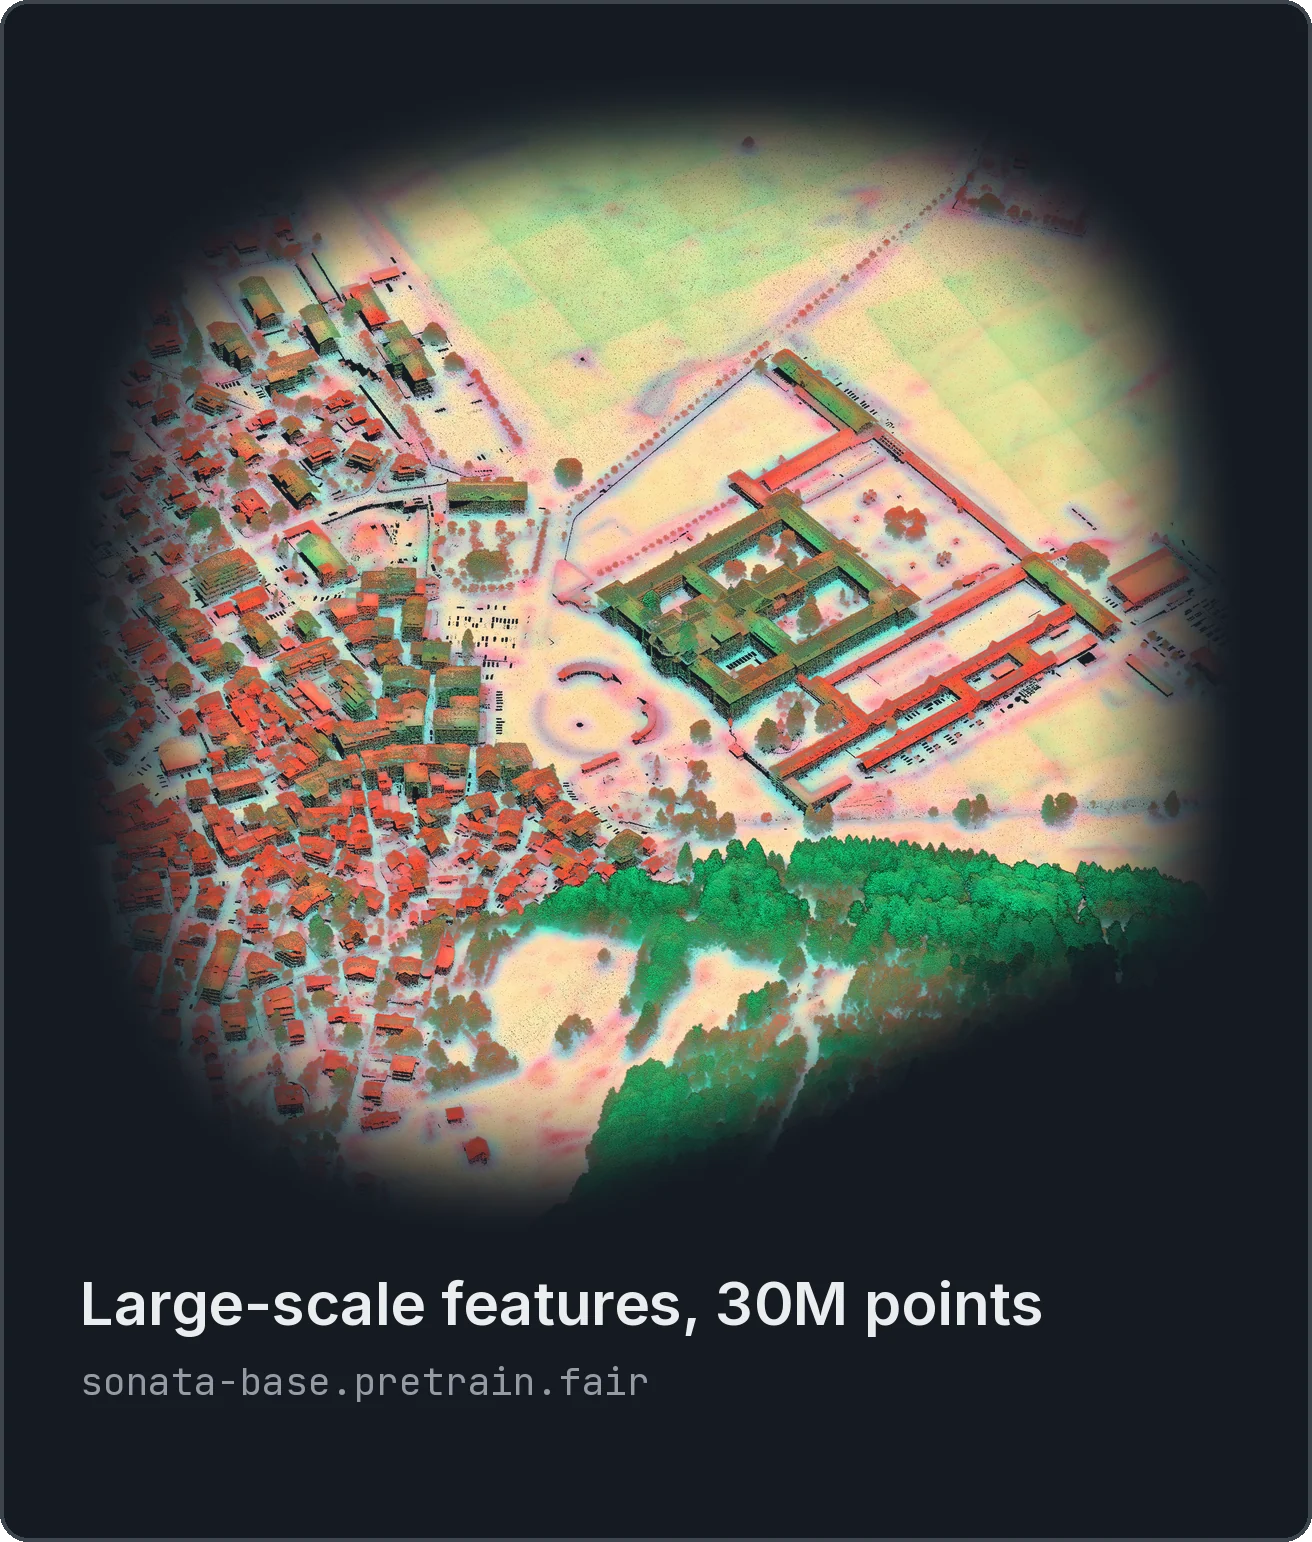
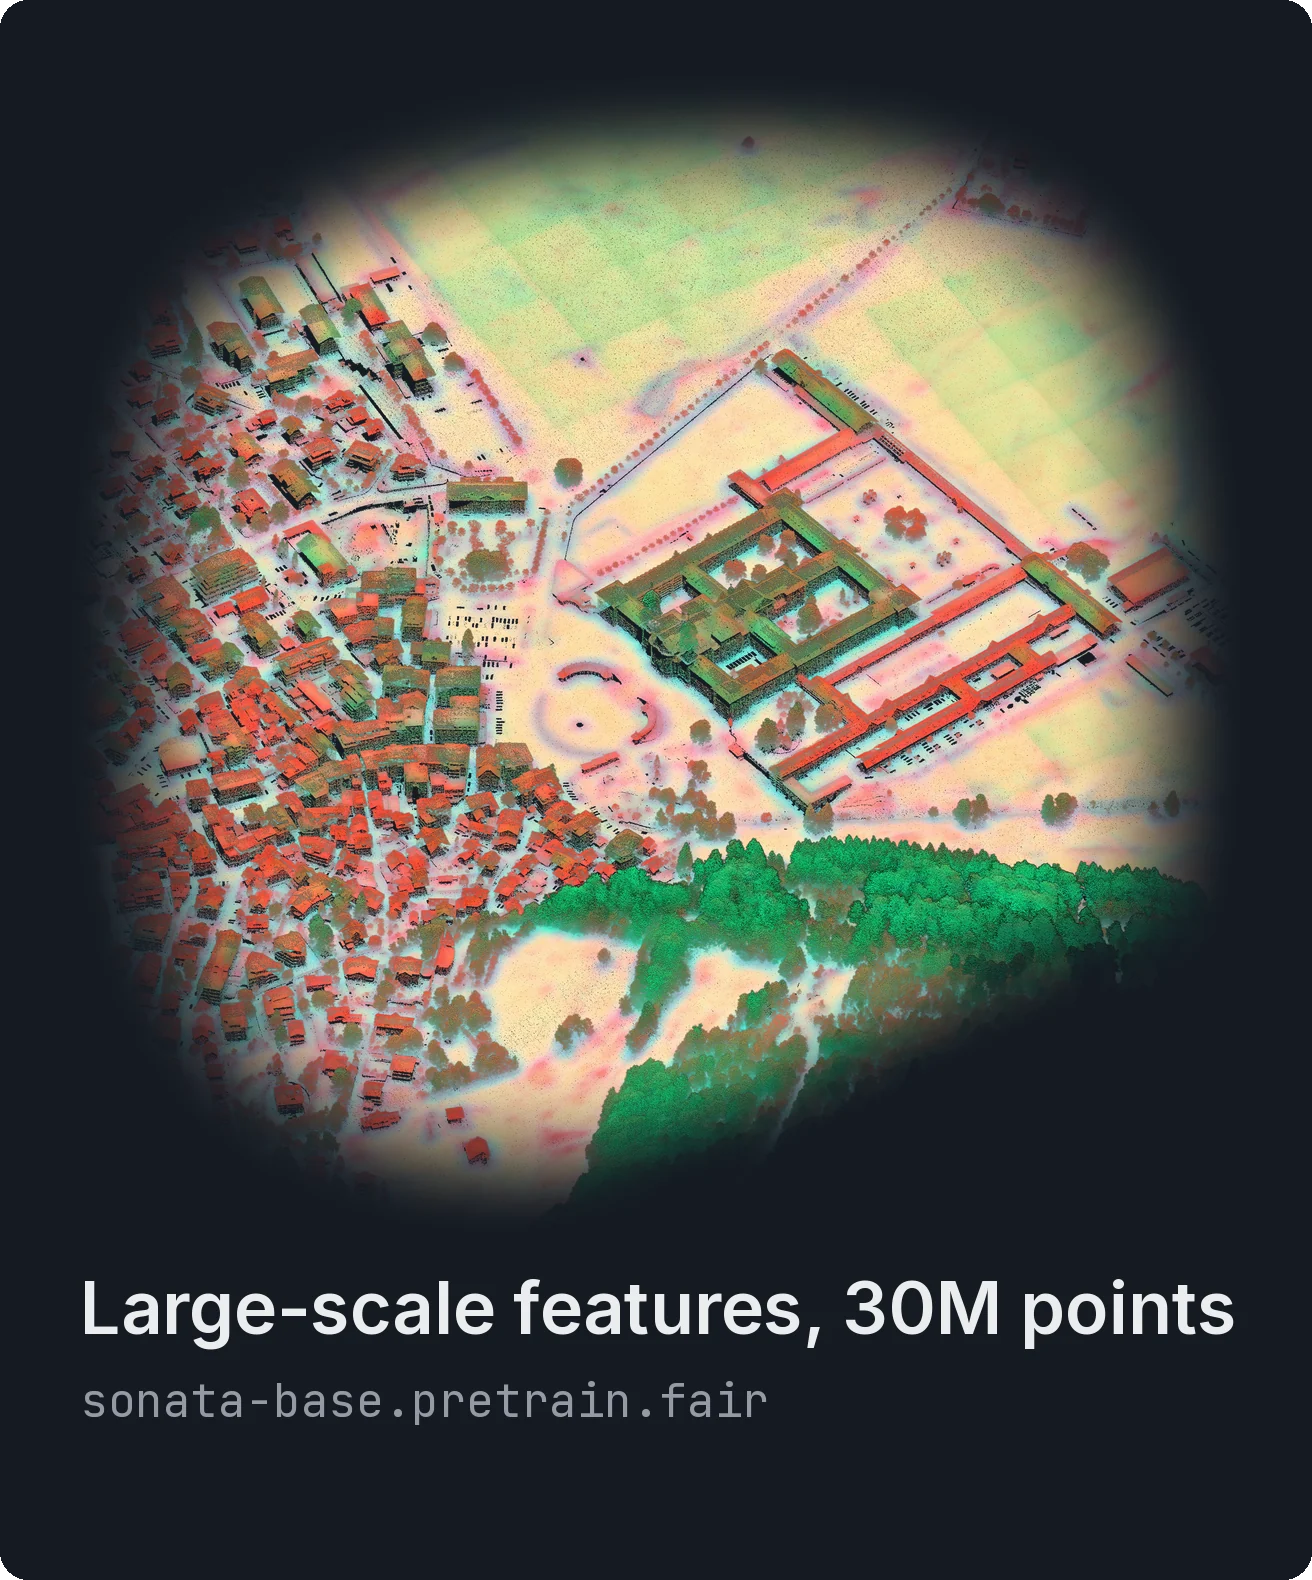
docs: generate survey missing figures

diff --git a/README.md b/README.md
@@ -25,32 +25,14 @@
   </p>
   <br>
   <p>
-  <picture>
-    <source media="(prefers-color-scheme: dark)" srcset="https://raw.githubusercontent.com/arthurdjn/pytorch-pointcloud/main/docs/assets/brand/figures/classification-dark-title.webp">
-    <img src="https://raw.githubusercontent.com/arthurdjn/pytorch-pointcloud/main/docs/assets/brand/figures/classification-light-title.webp" alt="Classification" width="30%" hspace="8">
-  </picture>
-  <picture>
-    <source media="(prefers-color-scheme: dark)" srcset="https://raw.githubusercontent.com/arthurdjn/pytorch-pointcloud/main/docs/assets/brand/figures/part-segmentation-dark-title.webp">
-    <img src="https://raw.githubusercontent.com/arthurdjn/pytorch-pointcloud/main/docs/assets/brand/figures/part-segmentation-light-title.webp" alt="Part segmentation" width="30%" hspace="8">
-  </picture>
-  <picture>
-    <source media="(prefers-color-scheme: dark)" srcset="https://raw.githubusercontent.com/arthurdjn/pytorch-pointcloud/main/docs/assets/brand/figures/indoor-dark-title.webp">
-    <img src="https://raw.githubusercontent.com/arthurdjn/pytorch-pointcloud/main/docs/assets/brand/figures/indoor-light-title.webp" alt="Indoor segmentation and detection" width="30%" hspace="8">
-  </picture>
+    <picture><source media="(prefers-color-scheme: dark)" srcset="https://raw.githubusercontent.com/arthurdjn/pytorch-pointcloud/main/docs/assets/brand/figures/classification-dark-title.webp"><img src="https://raw.githubusercontent.com/arthurdjn/pytorch-pointcloud/main/docs/assets/brand/figures/classification-light-title.webp" alt="Classification" width="32%"></picture
+    ><picture><source media="(prefers-color-scheme: dark)" srcset="https://raw.githubusercontent.com/arthurdjn/pytorch-pointcloud/main/docs/assets/brand/figures/part-segmentation-dark-title.webp"><img src="https://raw.githubusercontent.com/arthurdjn/pytorch-pointcloud/main/docs/assets/brand/figures/part-segmentation-light-title.webp" alt="Part segmentation" width="32%" hspace="1.9%"></picture
+    ><picture><source media="(prefers-color-scheme: dark)" srcset="https://raw.githubusercontent.com/arthurdjn/pytorch-pointcloud/main/docs/assets/brand/figures/indoor-dark-title.webp"><img src="https://raw.githubusercontent.com/arthurdjn/pytorch-pointcloud/main/docs/assets/brand/figures/indoor-light-title.webp" alt="Indoor segmentation and detection" width="32%"></picture>
   </p>
   <p>
-  <picture>
-    <source media="(prefers-color-scheme: dark)" srcset="https://raw.githubusercontent.com/arthurdjn/pytorch-pointcloud/main/docs/assets/brand/figures/similarity-dark-title.webp">
-    <img src="https://raw.githubusercontent.com/arthurdjn/pytorch-pointcloud/main/docs/assets/brand/figures/similarity-light-title.webp" alt="Feature similarity" width="30%" hspace="8">
-  </picture>
-  <picture>
-    <source media="(prefers-color-scheme: dark)" srcset="https://raw.githubusercontent.com/arthurdjn/pytorch-pointcloud/main/docs/assets/brand/figures/lidar-dark-title.webp">
-    <img src="https://raw.githubusercontent.com/arthurdjn/pytorch-pointcloud/main/docs/assets/brand/figures/lidar-light-title.webp" alt="LiDAR segmentation and detection" width="30%" hspace="8">
-  </picture>
-  <picture>
-    <source media="(prefers-color-scheme: dark)" srcset="https://raw.githubusercontent.com/arthurdjn/pytorch-pointcloud/main/docs/assets/brand/figures/survey-dark-title.webp">
-    <img src="https://raw.githubusercontent.com/arthurdjn/pytorch-pointcloud/main/docs/assets/brand/figures/survey-light-title.webp" alt="Large-scale features" width="30%" hspace="8">
-  </picture>
+    <picture><source media="(prefers-color-scheme: dark)" srcset="https://raw.githubusercontent.com/arthurdjn/pytorch-pointcloud/main/docs/assets/brand/figures/similarity-dark-title.webp"><img src="https://raw.githubusercontent.com/arthurdjn/pytorch-pointcloud/main/docs/assets/brand/figures/similarity-light-title.webp" alt="Feature similarity" width="32%"></picture
+    ><picture><source media="(prefers-color-scheme: dark)" srcset="https://raw.githubusercontent.com/arthurdjn/pytorch-pointcloud/main/docs/assets/brand/figures/lidar-dark-title.webp"><img src="https://raw.githubusercontent.com/arthurdjn/pytorch-pointcloud/main/docs/assets/brand/figures/lidar-light-title.webp" alt="LiDAR segmentation and detection" width="32%" hspace="1.9%"></picture
+    ><picture><source media="(prefers-color-scheme: dark)" srcset="https://raw.githubusercontent.com/arthurdjn/pytorch-pointcloud/main/docs/assets/brand/figures/survey-dark-title.webp"><img src="https://raw.githubusercontent.com/arthurdjn/pytorch-pointcloud/main/docs/assets/brand/figures/survey-light-title.webp" alt="Large-scale features" width="32%"></picture>
   </p>
 </div>
 
